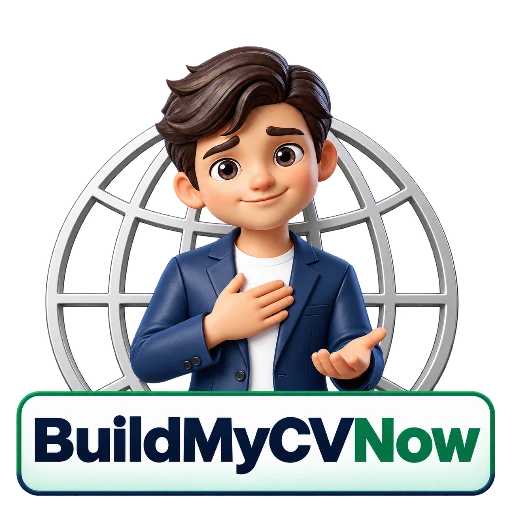
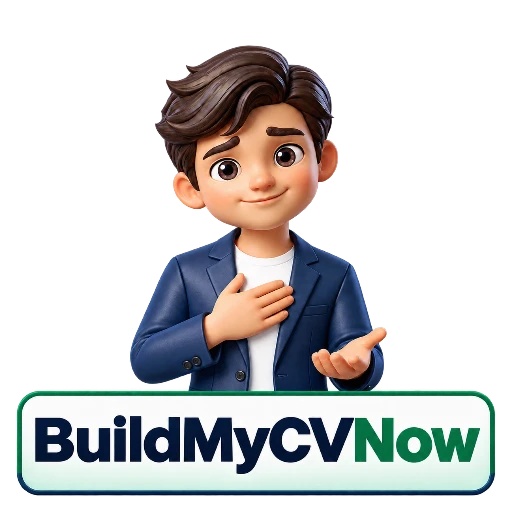
Replace in-page mascots with transparent cutouts

diff --git a/src/components/Mascot.jsx b/src/components/Mascot.jsx
@@ -4,7 +4,7 @@ export const mascotMoods = ['welcoming', 'thoughtful', 'focused', 'confident', '
 
 export default function Mascot({ mood = 'welcoming', size = 'medium', placement = 'inline', animation = 'auto', image, eager = false }) {
   const safeMood = mascotMoods.includes(mood) ? mood : 'welcoming';
-  const source = image || `/assets/mascots/${safeMood}.webp`;
+  const source = image || `/assets/mascots/${safeMood}.webp?v=cutout`;
   const [images, setImages] = useState({ active: source, previous: null });
   useEffect(() => {
     if (source === images.active) return;

diff --git a/docs/mascot-system.md b/docs/mascot-system.md
@@ -1,7 +1,8 @@
 # Mascot System
 
-The six supplied images are decorative companions, not part of a CV template.
-The existing header/footer logo remains unchanged.
+The six supplied globe-free cutouts are decorative companions, not part of a CV template.
+The existing globe-backed header/footer logo remains unchanged. In-page image
+URLs use the `v=cutout` revision to refresh previously cached mascot images.
 
 ## Components And Assets
 
